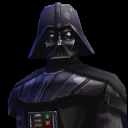
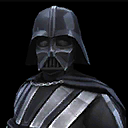
Added character images, moved counters logic to server, added HTML support in descriptions, changed descriptions from center to left justify, added session storage of counters info

diff --git a/src/App/App.js b/src/App/App.js
@@ -24,10 +24,8 @@ import characterData from '../helpers/data/characters.json';
 import firebaseConnection from '../helpers/data/firebaseConnection';
 import firebaseData from '../helpers/data/firebaseData';
 import getCounterData from '../helpers/data/countersData';
-import getSquadData from '../helpers/data/squadsData';
 
-import buildOpponentTeam from '../helpers/buildOpponentTeam';
-import buildSquad from '../helpers/buildSquad';
+import addImageRefs from '../helpers/addImageRefs';
 
 firebaseConnection();
 
@@ -59,11 +57,11 @@ class App extends React.Component {
     data: null,
     authenticated: false,
     characters: characterData.data,
-    squads: [],
-    countersNormal5v5: [],
-    countersReverse5v5: [],
-    countersNormal3v3: [],
-    countersReverse3v3: [],
+    squads: JSON.parse(sessionStorage.getItem('squads')) || [],
+    countersNormal5v5: JSON.parse(sessionStorage.getItem('countersNormal5v5')) || [],
+    countersReverse5v5: JSON.parse(sessionStorage.getItem('countersReverse5v5')) || [],
+    countersNormal3v3: JSON.parse(sessionStorage.getItem('countersNormal3v3')) || [],
+    countersReverse3v3: JSON.parse(sessionStorage.getItem('countersReverse3v3')) || [],
   }
 
   authenticateUser = (authUser) => {
@@ -83,63 +81,32 @@ class App extends React.Component {
     }
   }
 
-  buildSquadObjects = (res, squad, size, view) => {
-    // get the correct counter info
-    const counterInfo = res
-      .filter(x => x.battleType === `${size}v${size}`)
-      .filter(x => (view === 'normal'
-        ? x.opponentTeam === squad.id
-        : x.counterTeam === squad.id
-      ));
-
-    // get the left side squad
-    const leftSideSquad = buildSquad(squad, size, this.state.characters);
-
-    // get the right side squads
-    const rightSideSquads = counterInfo
-      .map(matchup => buildOpponentTeam(
-        matchup, size, this.state.squads, this.state.characters, view,
-      ));
-
-    // put them into an object and push into state
-    const squadObject = rightSideSquads.length ? { leftSideSquad, rightSideSquads } : '';
-    return squadObject;
-  }
-
   getCounters = async () => {
-    await getCounterData()
-      .then((res) => {
-        // seems verbose, but it queues up all of the
-        // counters at once before distributing to child components
-        const normal5 = [];
-        const reverse5 = [];
-        const normal3 = [];
-        const reverse3 = [];
-        this.state.squads.forEach((squad) => {
-          normal5.push(this.buildSquadObjects(res, squad, 5, 'normal'));
-          reverse5.push(this.buildSquadObjects(res, squad, 5, 'reverse'));
-          normal3.push(this.buildSquadObjects(res, squad, 3, 'normal'));
-          reverse3.push(this.buildSquadObjects(res, squad, 3, 'reverse'));
-        });
-        this.setState({ countersNormal5v5: normal5.filter(x => x !== '') });
-        this.setState({ countersReverse5v5: reverse5.filter(x => x !== '') });
-        this.setState({ countersNormal3v3: normal3.filter(x => x !== '') });
-        this.setState({ countersReverse3v3: reverse3.filter(x => x !== '') });
-      })
-      .catch(err => console.error(err));
-  };
-
-  getSquads = async () => {
-    await getSquadData()
-      .then(res => this.setState({ squads: res }))
-      .then(() => this.getCounters())
-      .catch(err => console.error(err));
+    const counters = await getCounterData();
+    const countersNormal5v5 = addImageRefs(counters.countersNormal5v5, this.state.characters);
+    const countersReverse5v5 = addImageRefs(counters.countersReverse5v5, this.state.characters);
+    const countersNormal3v3 = addImageRefs(counters.countersNormal3v3, this.state.characters);
+    const countersReverse3v3 = addImageRefs(counters.countersReverse3v3, this.state.characters);
+    this.setState({
+      squads: counters.squads,
+      countersNormal5v5,
+      countersReverse5v5,
+      countersNormal3v3,
+      countersReverse3v3,
+    });
+    sessionStorage.setItem('squads', JSON.stringify(this.state.squads));
+    sessionStorage.setItem('countersNormal5v5', JSON.stringify(this.state.countersNormal5v5));
+    sessionStorage.setItem('countersReverse5v5', JSON.stringify(this.state.countersReverse5v5));
+    sessionStorage.setItem('countersNormal3v3', JSON.stringify(this.state.countersNormal3v3));
+    sessionStorage.setItem('countersReverse3v3', JSON.stringify(this.state.countersReverse3v3));
   };
 
   componentDidMount() {
     this.removeListener = firebase.auth().onAuthStateChanged(this.authenticateUser);
     ReactGA.pageview(window.location.pathname);
-    this.getSquads();
+    if (!sessionStorage.getItem('squads')) {
+      this.getCounters();
+    }
   }
 
   handleAllyCode = (e) => {
@@ -232,7 +199,8 @@ class App extends React.Component {
                       />
                     } />
                     <Route exact path="/submit" component={ SubmissionForm } />
-{/*
+
+                    {/*
                     <PrivateRoute
                       exact path="/profile"
                       authenticated={authenticated}

diff --git a/src/components/BuildDescriptions/BuildDescriptions.js b/src/components/BuildDescriptions/BuildDescriptions.js
@@ -48,14 +48,17 @@ export default function BuildDescriptions(props) {
         description: counterDescription,
       } = counterTeam;
 
+      const createCounterDescription = () => ({ __html: counterDescription });
+      const createCounterStrategy = () => ({ __html: counterStrategy });
+
       const selectDescriptionData = (side) => {
         if (side === 'left') {
           if (view === 'normal') {
             return (
               <>
-                {(description) ? (<p><strong className="text-secondary">Details: </strong>{description}</p>) : ''}
+                {(description) ? (<p className="text-left"><strong className="text-secondary">Details: </strong>{description}</p>) : ''}
                 {(counterStrategy)
-                  ? (<p><strong className="text-secondary">General Strategy: </strong>{counterStrategy}</p>)
+                  ? (<p className="text-left"><strong className="text-secondary">General Strategy: </strong><span dangerouslySetInnerHTML={createCounterStrategy()}></span></p>)
                   : (<p className="text-secondary"><small>You can help me add common substitutions, a general counter strategy, or details about this team by <a href={submissionForm}>submiting an issue.</a></small></p>)}
                 {(counterStrategy) ? '' : (<p className="text-secondary"><small>You can also join me on <a href={discordLink}>Discord</a> to discuss counters a little further.</small></p>)}
               </>
@@ -64,7 +67,7 @@ export default function BuildDescriptions(props) {
           return (
             <>
             {(counterDescription)
-              ? (<p><strong className="text-secondary">Specific Strategy: </strong>{counterDescription}</p>)
+              ? (<p className="text-left"><strong className="text-secondary ">Specific Strategy: </strong><span dangerouslySetInnerHTML={createCounterDescription()}></span></p>)
               : (<p className="text-secondary"><small>Do you know the strategy to beat the {oppTeamName} team with {name}?  If so, please <a href={submissionForm}>submit an issue.</a></small></p>)}
             {(counterDescription) ? '' : (<p className="text-secondary"><small>You can also join me on <a href={discordLink}>Discord</a> to start a discussion regarding this team.</small></p>)}
             </>
@@ -75,7 +78,7 @@ export default function BuildDescriptions(props) {
             return (
               <>
                 {(counterDescription)
-                  ? (<p><strong className="text-secondary">Specific Strategy: </strong>{counterDescription}</p>)
+                  ? (<p className="text-left"><strong className="text-secondary">Specific Strategy: </strong><span dangerouslySetInnerHTML={createCounterDescription()}></span></p>)
                   : (<p className="text-secondary"><small>Do you know the strategy to beat the {name} team with {oppTeamName}?  If so, please <a href={submissionForm}>submit an issue.</a></small></p>)}
                 {(counterDescription) ? '' : (<p className="text-secondary"><small>You can also join me on <a href={discordLink}>Discord</a> to start a discussion regarding this team.</small></p>)}
               </>
@@ -83,9 +86,9 @@ export default function BuildDescriptions(props) {
           }
           return (
             <>
-              {(oppDetails) ? (<p><strong className="text-secondary">Details: </strong>{oppDetails}</p>) : ''}
+              {(oppDetails) ? (<p className="text-left"><strong className="text-secondary">Details: </strong>{oppDetails}</p>) : ''}
               {(oppCounterStrategy)
-                ? (<p><strong className="text-secondary">General Strategy: </strong>{oppCounterStrategy}</p>)
+                ? (<p className="text-left"><strong className="text-secondary">General Strategy: </strong><span dangerouslySetInnerHTML={createCounterStrategy()}></span></p>)
                 : (<p className="text-secondary"><small>You can help me add common substitutions, a general counter strategy, or details about this team by <a href={submissionForm}>submiting an issue.</a></small></p>)}
               {(oppCounterStrategy) ? '' : (<p className="text-secondary"><small>You can also join me on <a href={discordLink}>Discord</a> to discuss counters a little further.</small></p>)}
             </>

diff --git a/server/data/api/counter/get.js b/server/data/api/counter/get.js
@@ -1,9 +1,58 @@
 const axios = require('axios');
+const buildSquad = require('../../../util/buildSquad');
+const buildOpponentTeam = require('../../../util/buildOpponentTeam');
+const characters = require('../../../util/characters.json');
 
-const { counterSheet } = require('../../../.config.json');
+const { counterSheet, squadSheet } = require('../../../.config.json');
 
-module.exports = app => new Promise((resolve, reject) => {
-  axios.get(counterSheet)
-    .then(res => resolve(res.data))
-    .catch(err => reject(err));
-});
+const buildSquadObjects = (res, squads, squad, size, view) => {
+  // get the correct counter info
+  const counterInfo = res
+    .filter(x => x.battleType === `${size}v${size}`)
+    .filter(x => (view === 'normal'
+      ? x.opponentTeam === squad.id
+      : x.counterTeam === squad.id
+    ));
+
+  // get the left side squad
+  const leftSideSquad = buildSquad(squad, size, characters.data);
+
+  // get the right side squads
+  const rightSideSquads = counterInfo
+    .map(matchup => buildOpponentTeam(
+      matchup, size, squads, characters.data, view,
+    ));
+
+  // put them into an object and push into state
+  const squadObject = rightSideSquads.length ? { leftSideSquad, rightSideSquads } : '';
+  return squadObject;
+};
+
+module.exports = async (app) => {
+  const s = await axios.get(squadSheet);
+  const c = await axios.get(counterSheet);
+  const squads = s.data;
+  const counters = c.data;
+
+  const normal5 = [];
+  const reverse5 = [];
+  const normal3 = [];
+  const reverse3 = [];
+
+  squads.forEach((squad) => {
+    normal5.push(buildSquadObjects(counters, squads, squad, 5, 'normal'));
+    reverse5.push(buildSquadObjects(counters, squads, squad, 5, 'reverse'));
+    normal3.push(buildSquadObjects(counters, squads, squad, 3, 'normal'));
+    reverse3.push(buildSquadObjects(counters, squads, squad, 3, 'reverse'));
+  });
+
+  const countersObject = {
+    squads,
+    countersNormal5v5: normal5.filter(x => x !== ''),
+    countersNormal3v3: normal3.filter(x => x !== ''),
+    countersReverse5v5: reverse5.filter(x => x !== ''),
+    countersReverse3v3: reverse3.filter(x => x !== ''),
+  };
+
+  return countersObject;
+};

diff --git a/server/util/buildSquad.js b/server/util/buildSquad.js
@@ -1,0 +1,72 @@
+/* eslint-disable import/no-dynamic-require */
+module.exports = function buildTeam(teamToBuild, teamSize, allCharacters) {
+  const characters = [...allCharacters];
+  const team = { ...teamToBuild };
+  if (teamSize === 5) {
+    characters.map((character) => {
+      switch (character.name) {
+        case team.leaderName:
+          team.leaderId = character.base_id;
+          break;
+        case team.toon2Name:
+          team.toon2Id = character.base_id;
+          break;
+        case team.toon3Name:
+          team.toon3Id = character.base_id;
+          break;
+        case team.toon4Name:
+          team.toon4Id = character.base_id;
+          break;
+        case team.toon5Name:
+          team.toon5Id = character.base_id;
+          break;
+        case team.oppLeaderName:
+          team.oppLeaderId = character.base_id;
+          break;
+        case team.oppToon2Name:
+          team.oppToon2Id = character.base_id;
+          break;
+        case team.oppToon3Name:
+          team.oppToon3Id = character.base_id;
+          break;
+        case team.oppToon4Name:
+          team.oppToon4Id = character.base_id;
+          break;
+        case team.oppToon5Name:
+          team.oppToon5Id = character.base_id;
+          break;
+        default: return '';
+      }
+      return '';
+    });
+  }
+
+  if (teamSize === 3) {
+    characters.map((character) => {
+      switch (character.name) {
+        case team.leaderName:
+          team.leaderId = character.base_id;
+          break;
+        case team.toon2Name:
+          team.toon2Id = character.base_id;
+          break;
+        case team.toon3Name:
+          team.toon3Id = character.base_id;
+          break;
+        case team.oppLeaderName:
+          team.oppLeaderId = character.base_id;
+          break;
+        case team.oppToon2Name:
+          team.oppToon2Id = character.base_id;
+          break;
+        case team.oppToon3Name:
+          team.oppToon3Id = character.base_id;
+          break;
+        default: return '';
+      }
+      return '';
+    });
+  }
+
+  return team;
+};

diff --git a/src/helpers/addImageRefs.js b/src/helpers/addImageRefs.js
@@ -1,0 +1,49 @@
+/* eslint-disable no-param-reassign */
+/* eslint-disable import/no-dynamic-require */
+
+const leftList = [
+  'leader',
+  'toon2',
+  'toon3',
+  'toon4',
+  'toon5',
+];
+
+const rightList = [
+  'oppLeader',
+  'oppToon2',
+  'oppToon3',
+  'oppToon4',
+  'oppToon5',
+];
+
+export default function addImageRefs(countersToBuild, allCharacters) {
+  const characters = [...allCharacters];
+  const counters = [...countersToBuild];
+  counters.forEach((counter) => {
+    const { leftSideSquad, rightSideSquads } = counter;
+
+    leftList.forEach((prop) => {
+      const matchedCharacter = characters.find(char => char.name === leftSideSquad[`${prop}Name`]);
+      if (matchedCharacter) {
+        const characterImgRoute = matchedCharacter ? matchedCharacter.image.split('/u/').pop().split('/')[0] : null;
+        const characterImg = require(`../components/Counters5v5/characterImages/${characterImgRoute}.png`);
+        leftSideSquad[`${prop}Id`] = matchedCharacter.base_id || null;
+        leftSideSquad[`${prop}Image`] = characterImg || null;
+      }
+    });
+
+    rightSideSquads.forEach((rsSquad) => {
+      rightList.forEach((prop) => {
+        const matchedCharacter = characters.find(char => char.name === rsSquad[`${prop}Name`]);
+        if (matchedCharacter) {
+          const characterImgRoute = matchedCharacter.image.split('/u/').pop().split('/')[0];
+          const characterImg = require(`../components/Counters5v5/characterImages/${characterImgRoute}.png`);
+          rsSquad[`${prop}Id`] = matchedCharacter.base_id || null;
+          rsSquad[`${prop}Image`] = characterImg || null;
+        }
+      });
+    });
+  });
+  return counters;
+}

diff --git a/server/util/buildOpponentTeam.js b/server/util/buildOpponentTeam.js
@@ -1,0 +1,36 @@
+/* eslint-disable import/no-dynamic-require */
+const buildSquad = require('./buildSquad');
+
+module.exports = function buildOpponentTeam(
+  matchupToBuild, teamSize, allTeams, allCharacters, view,
+) {
+  // finds opponent team from the counterData
+  const matchup = matchupToBuild;
+  const filteredTeam = view === 'normal'
+    ? allTeams.find(team => team.id === matchup.counterTeam)
+    : allTeams.find(team => team.id === matchup.opponentTeam);
+
+  // adds fields needed to display on CounterRow and BuildDescriptions
+  if (filteredTeam && teamSize === 5) {
+    matchup.oppLeaderName = filteredTeam.leaderName;
+    matchup.oppToon2Name = filteredTeam.toon2Name;
+    matchup.oppToon3Name = filteredTeam.toon3Name;
+    matchup.oppToon4Name = filteredTeam.toon4Name;
+    matchup.oppToon5Name = filteredTeam.toon5Name;
+    matchup.oppTeamName = filteredTeam.name;
+    matchup.oppSubs = filteredTeam.subs;
+    matchup.oppDetails = filteredTeam.description;
+    matchup.oppCounterStrategy = filteredTeam.counterStrategy;
+    return buildSquad(matchup, 5, allCharacters);
+  } if (filteredTeam && teamSize === 3) {
+    matchup.oppLeaderName = filteredTeam.leaderName;
+    matchup.oppToon2Name = filteredTeam.toon2Name;
+    matchup.oppToon3Name = filteredTeam.toon3Name;
+    matchup.oppTeamName = filteredTeam.name;
+    matchup.oppSubs = filteredTeam.subs;
+    matchup.oppDetails = filteredTeam.description;
+    matchup.oppCounterStrategy = filteredTeam.counterStrategy;
+    return buildSquad(matchup, 3, allCharacters);
+  }
+  return [];
+};
